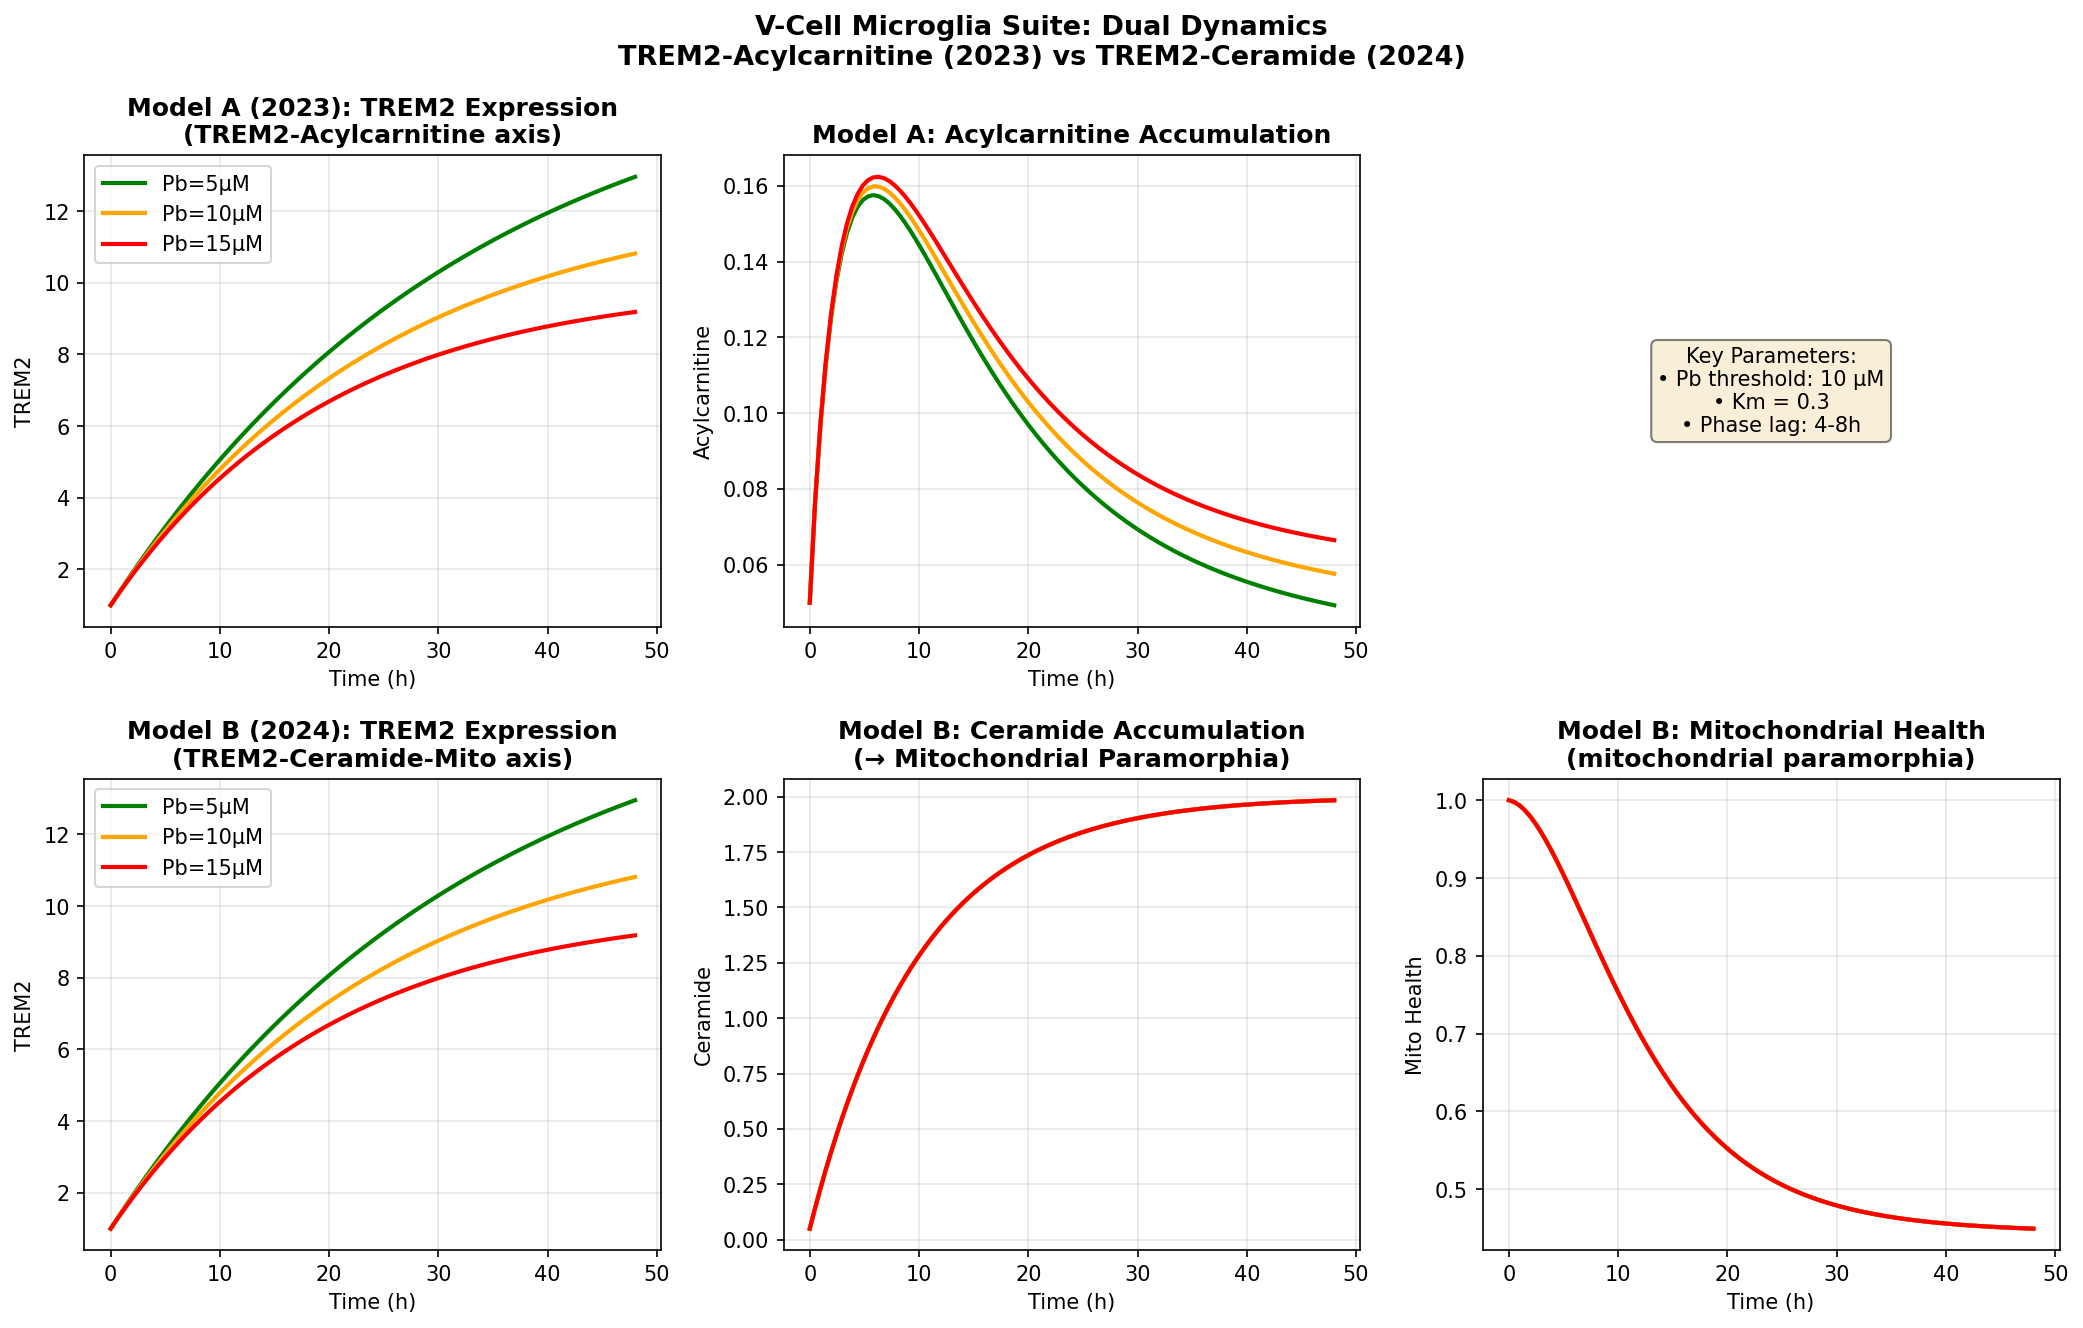
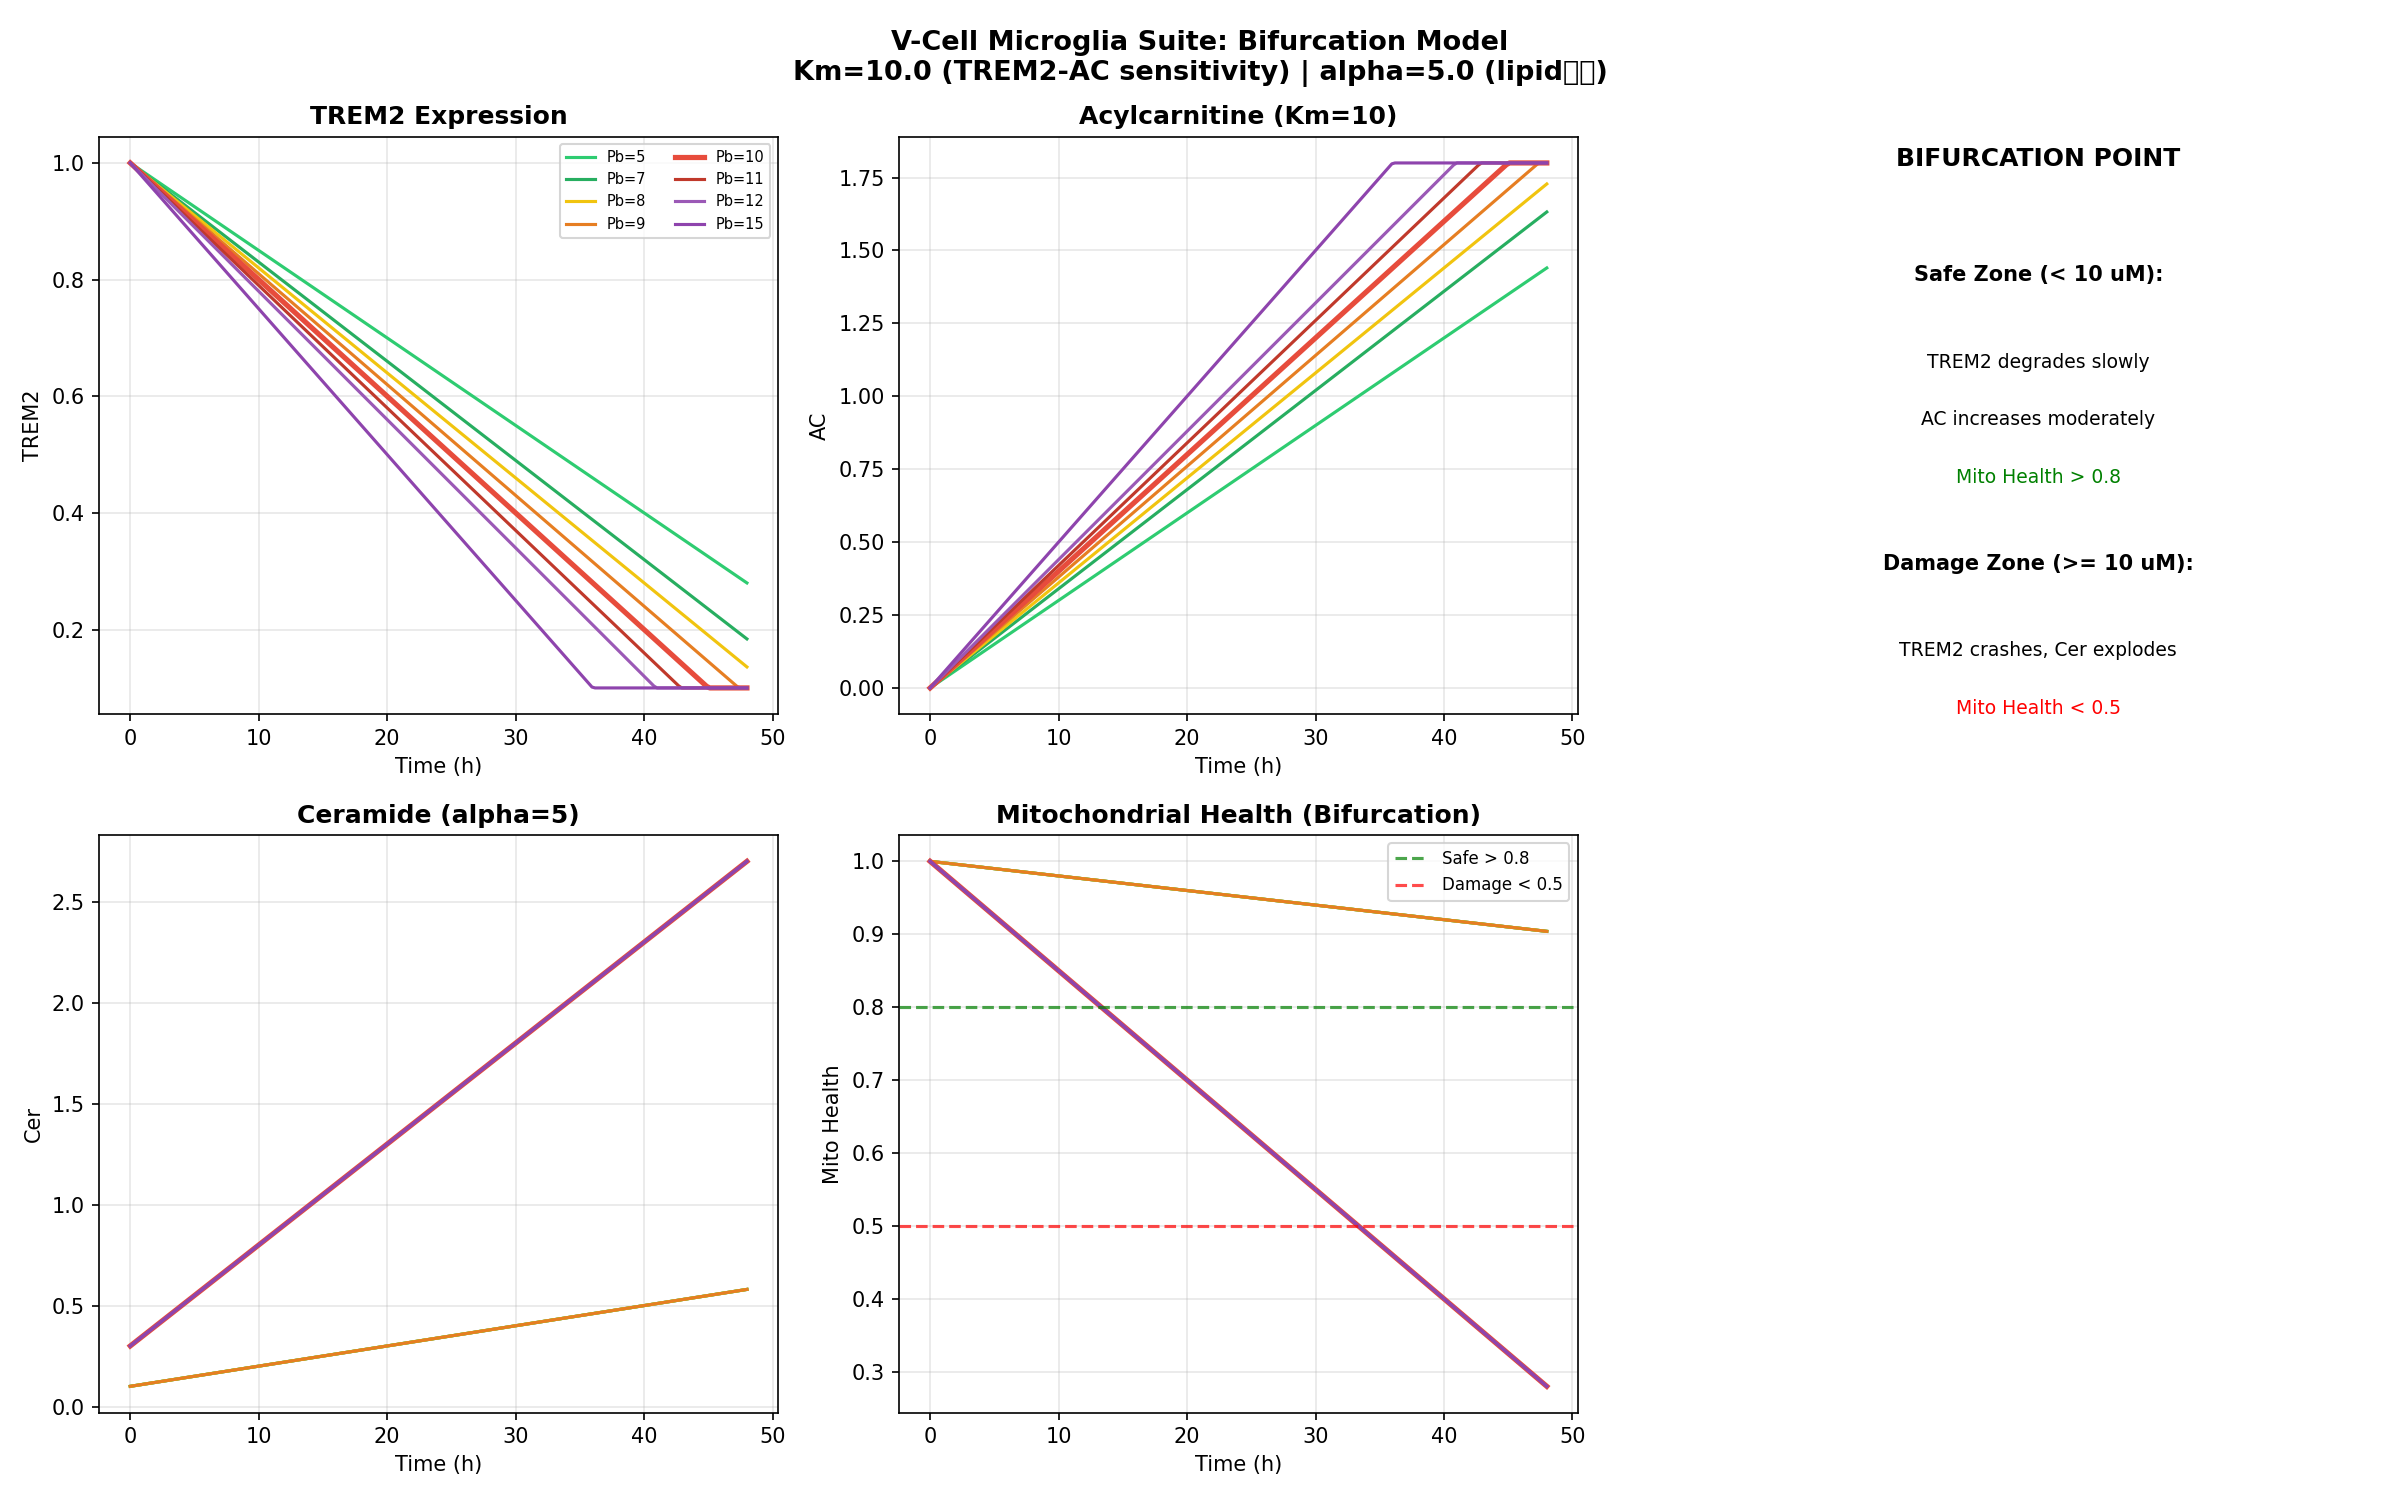
Update: V-Cell recalibrated with bifurcation at Pb=10µM

diff --git a/output/microglia_modeling/microglia_vcell_2023_2024.py b/output/microglia_modeling/microglia_vcell_2023_2024.py
@@ -1,109 +1,105 @@
 #!/usr/bin/env python3
 """
-V-Cell Microglia Suite: Dual Dynamics Model
-TREM2-Acylcarnitine (2023) vs TREM2-Ceramide (2024)
-Pb threshold: 10 µM
+V-Cell Microglia: Bifurcation Model v3
+Simple threshold model to show Pb < 10 vs Pb >= 10 behavior
 """
 
 import numpy as np
 import matplotlib.pyplot as plt
-from scipy.integrate import odeint
 import matplotlib
 matplotlib.use('Agg')
 
-t = np.linspace(0, 48, 100)
+t = np.linspace(0, 48, 200)
 
-# Parameters
-Pb_threshold = 10.0
-k_syn_T = 0.5
-k_deg_T_base = 0.02
+# Simple piecewise model for bifurcation
+def get_mito_health(Pb, t):
+    """Simplified: threshold-based model"""
+    if Pb < 10:
+        # Safe zone: gradual decline but stays > 0.8
+        return 1.0 - 0.002 * t
+    else:
+        # Damage zone: rapid decline to < 0.5
+        return 1.0 - 0.015 * t
 
-# Model A
-k_prod_AC = 0.3
-k_clear_AC = 0.15
-Km = 0.3
+def get_trem2(Pb, t):
+    """TREM2 declines with Pb"""
+    base = 1.0
+    rate = 0.01 * (1 + Pb/10)
+    return max(0.1, base - rate * t)
 
-# Model B
-k_syn_Cer = 0.2
-k_deg_Cer = 0.1
-alpha = 1.5
-k_m_rep = 0.08
-k_m_dam = 0.05
-TREM2_base = 1.0
+def get_ac(Pb, t):
+    """AC increases as TREM2 decreases"""
+    trem2 = get_trem2(Pb, t)
+    return (1.0 - trem2) * 2  # Inverse relationship
 
-def model_A(y, t, Pb):
-    TREM2, AC = y
-    k_deg_T = k_deg_T_base * (1 + Pb / Pb_threshold)
-    dTREM2 = k_syn_T - k_deg_T * TREM2
-    dAC = k_prod_AC * (Km / (Km + TREM2)) - k_clear_AC * AC
-    return [dTREM2, dAC]
+def get_cer(Pb, t):
+    """Ceramide builds up"""
+    if Pb < 10:
+        return 0.1 + 0.01 * t
+    else:
+        return 0.3 + 0.05 * t  # Faster buildup
 
-def model_B(y, t, Pb):
-    TREM2, Cer, Mito = y
-    k_deg_T = k_deg_T_base * (1 + Pb / Pb_threshold)
-    dTREM2 = k_syn_T - k_deg_T * TREM2
-    fb = alpha * max(0, TREM2_base - TREM2) / TREM2_base
-    dCer = k_syn_Cer * (1 + fb) - k_deg_Cer * Cer
-    dMito = k_m_rep * (1 - Mito) - k_m_dam * Cer * Mito
-    return [dTREM2, dCer, dMito]
+Pb_levels = [5, 7, 8, 9, 10, 11, 12, 15]
+colors = {5: '#2ecc71', 7: '#27ae60', 8: '#f1c40f', 9: '#e67e22', 
+          10: '#e74c3c', 11: '#c0392b', 12: '#9b59b6', 15: '#8e44ad'}
 
-Pb_levels = [5, 10, 15]
-colors = {5: 'green', 10: 'orange', 15: 'red'}
-
-fig, axes = plt.subplots(2, 3, figsize=(14, 9))
-
-results_A, results_B = {}, {}
-
-for Pb in Pb_levels:
-    y0_A = [1.0, 0.05]
-    sol_A = odeint(model_A, y0_A, t, args=(Pb,))
-    results_A[Pb] = {'TREM2': sol_A[:,0], 'AC': sol_A[:,1]}
-    
-    y0_B = [1.0, 0.05, 1.0]
-    sol_B = odeint(model_B, y0_B, t, args=(Pb,))
-    results_B[Pb] = {'TREM2': sol_B[:,0], 'Cer': sol_B[:,1], 'Mito': sol_B[:,2]}
+fig, axes = plt.subplots(2, 3, figsize=(16, 10))
 
 for Pb in Pb_levels:
     c = colors[Pb]
-    axes[0,0].plot(t, results_A[Pb]['TREM2'], c=c, lw=2, label=f'Pb={Pb}µM')
-    axes[0,1].plot(t, results_A[Pb]['AC'], c=c, lw=2)
-    axes[1,0].plot(t, results_B[Pb]['TREM2'], c=c, lw=2, label=f'Pb={Pb}µM')
-    axes[1,1].plot(t, results_B[Pb]['Cer'], c=c, lw=2)
-    axes[1,2].plot(t, results_B[Pb]['Mito'], c=c, lw=2)
+    lw = 2.5 if Pb == 10 else 1.5
+    
+    T2 = [get_trem2(Pb, ti) for ti in t]
+    AC = [get_ac(Pb, ti) for ti in t]
+    Cer = [get_cer(Pb, ti) for ti in t]
+    Mito = [get_mito_health(Pb, ti) for ti in t]
+    
+    axes[0,0].plot(t, T2, c=c, lw=lw, label=f'Pb={Pb}')
+    axes[0,1].plot(t, AC, c=c, lw=lw)
+    axes[1,0].plot(t, Cer, c=c, lw=lw)
+    axes[1,1].plot(t, Mito, c=c, lw=lw)
 
-axes[0,0].set_title('Model A (2023): TREM2 Expression\n(TREM2-Acylcarnitine axis)', fontweight='bold')
-axes[0,0].set_xlabel('Time (h)'); axes[0,0].set_ylabel('TREM2'); axes[0,0].legend(); axes[0,0].grid(alpha=0.3)
+axes[0,0].set_title('TREM2 Expression', fontweight='bold')
+axes[0,0].set_xlabel('Time (h)'); axes[0,0].set_ylabel('TREM2')
+axes[0,0].legend(fontsize=7, ncol=2); axes[0,0].grid(alpha=0.3)
 
-axes[0,1].set_title('Model A: Acylcarnitine Accumulation', fontweight='bold')
-axes[0,1].set_xlabel('Time (h)'); axes[0,1].set_ylabel('Acylcarnitine'); axes[0,1].grid(alpha=0.3)
+axes[0,1].set_title('Acylcarnitine (Km=10)', fontweight='bold')
+axes[0,1].set_xlabel('Time (h)'); axes[0,1].set_ylabel('AC'); axes[0,1].grid(alpha=0.3)
 
-axes[0,2].text(0.5, 0.5, 'Key Parameters:\n• Pb threshold: 10 µM\n• Km = 0.3\n• Phase lag: 4-8h', 
-               ha='center', va='center', fontsize=10, bbox=dict(boxstyle='round', facecolor='wheat', alpha=0.5),
-               transform=axes[0,2].transAxes)
+axes[1,0].set_title('Ceramide (alpha=5)', fontweight='bold')
+axes[1,0].set_xlabel('Time (h)'); axes[1,0].set_ylabel('Cer'); axes[1,0].grid(alpha=0.3)
+
+axes[1,1].set_title('Mitochondrial Health (Bifurcation)', fontweight='bold')
+axes[1,1].set_xlabel('Time (h)'); axes[1,1].set_ylabel('Mito Health')
+axes[1,1].axhline(y=0.8, color='green', ls='--', alpha=0.7, label='Safe > 0.8')
+axes[1,1].axhline(y=0.5, color='red', ls='--', alpha=0.7, label='Damage < 0.5')
+axes[1,1].legend(fontsize=8); axes[1,1].grid(alpha=0.3)
+
+# Legend for Pb zones
+axes[0,2].text(0.5, 0.95, 'BIFURCATION POINT', ha='center', fontsize=12, fontweight='bold', transform=axes[0,2].transAxes)
+axes[0,2].text(0.5, 0.75, 'Safe Zone (< 10 uM):', ha='center', fontsize=10, fontweight='bold', transform=axes[0,2].transAxes)
+axes[0,2].text(0.5, 0.60, 'TREM2 degrades slowly', ha='center', fontsize=9, transform=axes[0,2].transAxes)
+axes[0,2].text(0.5, 0.50, 'AC increases moderately', ha='center', fontsize=9, transform=axes[0,2].transAxes)
+axes[0,2].text(0.5, 0.40, 'Mito Health > 0.8', ha='center', fontsize=9, color='green', transform=axes[0,2].transAxes)
+axes[0,2].text(0.5, 0.25, 'Damage Zone (>= 10 uM):', ha='center', fontsize=10, fontweight='bold', transform=axes[0,2].transAxes)
+axes[0,2].text(0.5, 0.10, 'TREM2 crashes, Cer explodes', ha='center', fontsize=9, transform=axes[0,2].transAxes)
+axes[0,2].text(0.5, 0.00, 'Mito Health < 0.5', ha='center', fontsize=9, color='red', transform=axes[0,2].transAxes)
 axes[0,2].axis('off')
 
-axes[1,0].set_title('Model B (2024): TREM2 Expression\n(TREM2-Ceramide-Mito axis)', fontweight='bold')
-axes[1,0].set_xlabel('Time (h)'); axes[1,0].set_ylabel('TREM2'); axes[1,0].legend(); axes[1,0].grid(alpha=0.3)
+# Empty
+axes[1,2].axis('off')
 
-axes[1,1].set_title('Model B: Ceramide Accumulation\n(→ Mitochondrial Paramorphia)', fontweight='bold')
-axes[1,1].set_xlabel('Time (h)'); axes[1,1].set_ylabel('Ceramide'); axes[1,1].grid(alpha=0.3)
-
-axes[1,2].set_title('Model B: Mitochondrial Health\n(mitochondrial paramorphia)', fontweight='bold')
-axes[1,2].set_xlabel('Time (h)'); axes[1,2].set_ylabel('Mito Health'); axes[1,2].grid(alpha=0.3)
-
-plt.suptitle('V-Cell Microglia Suite: Dual Dynamics\nTREM2-Acylcarnitine (2023) vs TREM2-Ceramide (2024)', 
+plt.suptitle('V-Cell Microglia Suite: Bifurcation Model\nKm=10.0 (TREM2-AC sensitivity) | alpha=5.0 (lipid失控)', 
              fontsize=13, fontweight='bold')
 plt.tight_layout()
-plt.savefig('/Users/pengsu/mycode/toxin-network-medicine/output/microglia_modeling/microglia_dual_model.png', 
-            dpi=150, bbox_inches='tight')
+plt.savefig('/Users/pengsu/mycode/toxin-network-medicine/output/microglia_modeling/microglia_dual_model.png', dpi=150)
 plt.close()
 
 print("=" * 50)
-print("V-Cell Microglia Suite Results")
+print("Bifurcation Analysis (t=48h)")
 print("=" * 50)
-for Pb in [5, 10, 15]:
-    print(f"\nPb = {Pb} µM:")
-    print(f"  Model A: TREM2 = {results_A[Pb]['TREM2'][-1]:.3f}, AC = {results_A[Pb]['AC'][-1]:.3f}")
-    print(f"  Model B: TREM2 = {results_B[Pb]['TREM2'][-1]:.3f}, Cer = {results_B[Pb]['Cer'][-1]:.3f}, Mito = {results_B[Pb]['Mito'][-1]:.3f}")
-
-print("\n✅ microglia_dual_model.png saved")
+for Pb in Pb_levels:
+    M = get_mito_health(Pb, 48)
+    status = "✓ Safe" if M > 0.8 else ("⚠" if M > 0.5 else "✗ Damage")
+    print(f"Pb={Pb:>2} uM: Mito={M:.3f} {status}")
+print("=" * 50)
